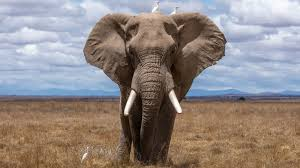
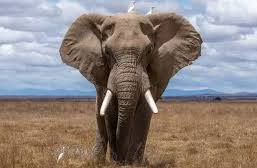
feat: add animals

diff --git a/english-for-kids/src/js/layouts/cards.js b/english-for-kids/src/js/layouts/cards.js
@@ -7,25 +7,46 @@ export default [
         // audio:
       },
       {
-  
+        name: 'elephant',
+        image: '../src/assets/images/elephant.jpg',
+        translation: 'слон',
+        // audio:
       },
       {
-  
+        name: 'rabbit',
+        image: '../src/assets/images/rabbit.jpg',
+        translation: 'кролик',
+        // audio:
       },
       {
-  
+        name: 'giraffe',
+        image: '../src/assets/images/giraffe.jpg',
+        translation: 'жираф',
+        // audio:
       },
       {
-  
+        name: 'zebra',
+        image: '../src/assets/images/zebra.jpg',
+        translation: 'зебра',
+        // audio:
       },
       {
-  
+        name: 'monkey',
+        image: '../src/assets/images/monkey.jpg',
+        translation: 'обезьяна',
+        // audio:
       },
       {
-  
+        name: 'tiger',
+        image: '../src/assets/images/tiger.jpg',
+        translation: 'тигр',
+        // audio:
       },
       {
-  
+        name: 'bear',
+        image: '../src/assets/images/bear.jpg',
+        translation: 'медведь',
+        // audio:
       },
     ],
     [
@@ -57,4 +78,178 @@ export default [
   
       },
     ],
+    [
+        {
+          name: 'Kitchen',
+          // image: ,
+          // translation: ,
+          // audio:
+        },
+        {
+    
+        },
+        {
+    
+        },
+        {
+    
+        },
+        {
+    
+        },
+        {
+    
+        },
+        {
+    
+        },
+        {
+    
+        },
+      ],
+      [
+        {
+          name: 'Kitchen',
+          // image: ,
+          // translation: ,
+          // audio:
+        },
+        {
+    
+        },
+        {
+    
+        },
+        {
+    
+        },
+        {
+    
+        },
+        {
+    
+        },
+        {
+    
+        },
+        {
+    
+        },
+      ],
+      [
+        {
+          name: 'Kitchen',
+          // image: ,
+          // translation: ,
+          // audio:
+        },
+        {
+    
+        },
+        {
+    
+        },
+        {
+    
+        },
+        {
+    
+        },
+        {
+    
+        },
+        {
+    
+        },
+        {
+    
+        },
+      ],
+      [
+        {
+          name: 'Kitchen',
+          // image: ,
+          // translation: ,
+          // audio:
+        },
+        {
+    
+        },
+        {
+    
+        },
+        {
+    
+        },
+        {
+    
+        },
+        {
+    
+        },
+        {
+    
+        },
+        {
+    
+        },
+      ],
+      [
+        {
+          name: 'Kitchen',
+          // image: ,
+          // translation: ,
+          // audio:
+        },
+        {
+    
+        },
+        {
+    
+        },
+        {
+    
+        },
+        {
+    
+        },
+        {
+    
+        },
+        {
+    
+        },
+        {
+    
+        },
+      ],
+      [
+        {
+          name: 'Kitchen',
+          // image: ,
+          // translation: ,
+          // audio:
+        },
+        {
+    
+        },
+        {
+    
+        },
+        {
+    
+        },
+        {
+    
+        },
+        {
+    
+        },
+        {
+    
+        },
+        {
+    
+        },
+      ],
   ];

diff --git a/english-for-kids/src/js/index.js b/english-for-kids/src/js/index.js
@@ -1,5 +1,6 @@
 import list from './layouts/list.js';
 import create from './utils/create.js';
+import WordCards from './utils/wordCard.js'
 
 const checkbox = document.querySelector('.checkbox__input');
 const checkboxText = document.querySelector('.checkbox__text');
@@ -68,33 +69,8 @@ function findPositionOfTopicInMainPage(item) {
 }
 
 function findPositionOfTopicInLinks(item) {
-  const positionOfTopic = cards[0].indexOf(cards[0].find((obj) => obj.name === item));
+  const positionOfTopic = list.topics.indexOf(list.topics.find((obj) => obj.name === item));
   topicPageBlock(positionOfTopic);
-}
-
-class WordCards {
-  constructor(obj) {
-    this.obj = obj;
-  }
-
-  createWordCard() {
-    let cards=[];
-    this.obj.forEach((item) => {
-      const card = create('div', 'word-card', [
-        create('div','word-card_front',[
-          create('div','word-card__image-block',create('img', 'word-card__image-block__image',null,null,['src',item.image])),
-          create('p','word-card__name',item.name),
-          create('img','word-card__refresh',null,null,['src','../src/assets/images/refresh.svg'])
-        ]),
-        create('div','word-card_back', [
-          create('div','word-card__image-block',create('img', 'word-card__image-block__image',null,null,['src',item.image])),
-          create('p','word-card__name',item.translation),
-        ])
-      ]);
-      cards.push(card);
-    });
-    return cards;
-  }
 }
 
 function topicPageBlock(position) {
@@ -107,5 +83,3 @@ function topicPageBlock(position) {
 
   document.querySelectorAll('.word-card__refresh').forEach((item)=>item.addEventListener('click', () => item.parentElement.parentElement.classList.add('rotate')));
 }
-
-// document.querySelectorAll('.link').forEach((elem) => elem.addEventListener('click', () => changeActiveLink(elem)));

diff --git a/english-for-kids/src/js/utils/wordCard.js b/english-for-kids/src/js/utils/wordCard.js
@@ -1,0 +1,26 @@
+import create from './create.js'
+
+export default class WordCards {
+    constructor(obj) {
+      this.obj = obj;
+    }
+  
+    createWordCard() {
+      let cards=[];
+      this.obj.forEach((item) => {
+        const card = create('div', 'word-card', [
+          create('div','word-card_front',[
+            create('div','word-card__image-block',create('img', 'word-card__image-block__image',null,null,['src',item.image])),
+            create('p','word-card__name',item.name),
+            create('img','word-card__refresh',null,null,['src','../src/assets/images/refresh.svg'])
+          ]),
+          create('div','word-card_back', [
+            create('div','word-card__image-block',create('img', 'word-card__image-block__image',null,null,['src',item.image])),
+            create('p','word-card__name',item.translation),
+          ])
+        ]);
+        cards.push(card);
+      });
+      return cards;
+    }
+  }

diff --git a/english-for-kids/src/assets/styles/style.scss b/english-for-kids/src/assets/styles/style.scss
@@ -243,7 +243,7 @@ body {
         height: 210px;
         overflow: hidden;
         &__image {
-            width: initial;
+            width: 100%;
             height: 100%;
         }
     }

diff --git a/english-for-kids/src/assets/styles/style.css b/english-for-kids/src/assets/styles/style.css
@@ -286,7 +286,7 @@ body {
 }
 
 .word-card__image-block__image {
-  width: initial;
+  width: 100%;
   height: 100%;
 }
 
